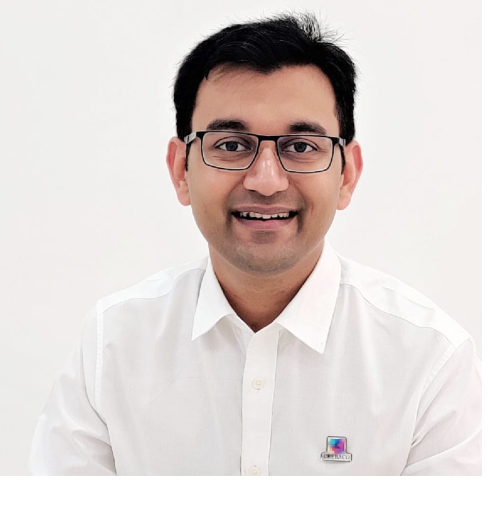
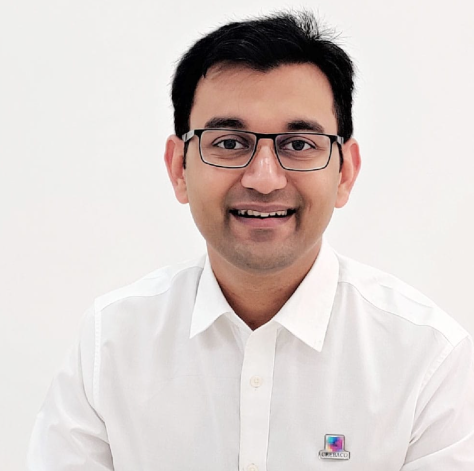
调整图片和页面

Changed region(s): [[0.3249, 0.0, 0.7679, 0.8323], [0.0886, 0.7728, 1.0, 1.0], [0.1477, 0.7431, 0.1772, 0.7728]]

diff --git a/src/pages/HomePage.jsx b/src/pages/HomePage.jsx
@@ -143,14 +143,14 @@ export default function HomePage() {
   const heroCanvasRef = useRef(null);
   const heroPreviewRef = useRef(null);
 
-  // const confirmedPartners = t("home.confirmedPartners", { returnObjects: true });
+  const confirmedPartners = t("home.confirmedPartners", { returnObjects: true });
   const protocolMetrics = t("home.protocolMetrics", { returnObjects: true });
   const institutionalPillars = t("home.institutionalPillars", { returnObjects: true });
   const tokenRows = t("home.tokenRows", { returnObjects: true });
   const helpCards = t("home.helpCards", { returnObjects: true });
   const assetProofItems = t("home.assetProof.items", { returnObjects: true });
   const comparisonRows = t("home.comparisonRows", { returnObjects: true });
-  // const projectCards = t("home.projectCards", { returnObjects: true });
+  const projectCards = t("home.projectCards", { returnObjects: true });
   const teamMembers = t("home.team.members", { returnObjects: true });
   const planCards = t("home.plans.planCards", { returnObjects: true });
   const stakingSteps = t("home.plans.howItWorks.steps", { returnObjects: true });
@@ -397,7 +397,7 @@ export default function HomePage() {
             </div>
           </div>
 
-          {/* <div className="relative z-10 mx-auto mt-10 max-w-5xl">
+          <div className="relative z-10 mx-auto mt-10 max-w-5xl">
             <p className="text-sm text-slate-300">{t("home.hero.trustNetwork")}</p>
             <div className="marquee-mask mt-7 overflow-hidden py-2">
               <ul className="marquee-track flex w-max items-center gap-8 md:gap-12">
@@ -409,7 +409,7 @@ export default function HomePage() {
                 ))}
               </ul>
             </div>
-          </div> */}
+          </div>
         </div>
       </section>
 
@@ -573,11 +573,14 @@ export default function HomePage() {
           subtitle={t("home.sectionHeadings.teamSubtitle")}
         />
 
-        <div className="mx-auto mt-12 grid max-w-6xl gap-5 sm:grid-cols-2 lg:grid-cols-3">
-          {teamMembers.map((member) => (
-            <article key={member.name} className="glass-card overflow-hidden rounded-[20px] text-left">
-              <div className="aspect-[4/3] overflow-hidden bg-black/25">
-                <img src={member.image} alt={member.name} className="h-full w-full scale-[1.06] object-cover object-center" />
+        <div className="mx-auto mt-12 grid max-w-6xl gap-5 sm:grid-cols-2 lg:grid-cols-6">
+          {teamMembers.map((member, index) => (
+            <article
+              key={member.name}
+              className={`glass-card overflow-hidden rounded-[20px] text-left lg:col-span-2 ${index === 3 ? "lg:col-start-2" : ""}`}
+            >
+              <div className="aspect-square overflow-hidden bg-black/25">
+                <img src={member.image} alt={member.name} className="h-full w-full object-contain object-center" />
               </div>
               <div className="p-5">
                 <p className="text-xl font-semibold text-white">{member.name}</p>
@@ -796,7 +799,7 @@ export default function HomePage() {
         </div>
       </section>
 
-      {/* <section className="px-4 pb-32 md:pb-40">
+      <section className="px-4 pb-32 md:pb-40">
         <SectionHeading
           title={
             <>
@@ -817,7 +820,7 @@ export default function HomePage() {
             </article>
           ))}
         </div>
-      </section> */}
+      </section>
 
     </>
   );

diff --git a/src/pages/LabPage.jsx b/src/pages/LabPage.jsx
@@ -151,7 +151,7 @@ function EcosystemPanel({ goldPrice, annualRevenue, copy }) {
         })}
       </div>
 
-      <SectionLabel>{ecosystem.infrastructureTitle}</SectionLabel>
+      {/* <SectionLabel>{ecosystem.infrastructureTitle}</SectionLabel>
       <div className="grid gap-3 sm:grid-cols-2 lg:grid-cols-4">
         {ecosystem.infrastructureItems.map(([role, name]) => (
           <PanelCard key={role} className="rounded-2xl p-4">
@@ -159,7 +159,7 @@ function EcosystemPanel({ goldPrice, annualRevenue, copy }) {
             <p className="mt-2 font-semibold text-white">{name}</p>
           </PanelCard>
         ))}
-      </div>
+      </div> */}
     </>
   );
 }
